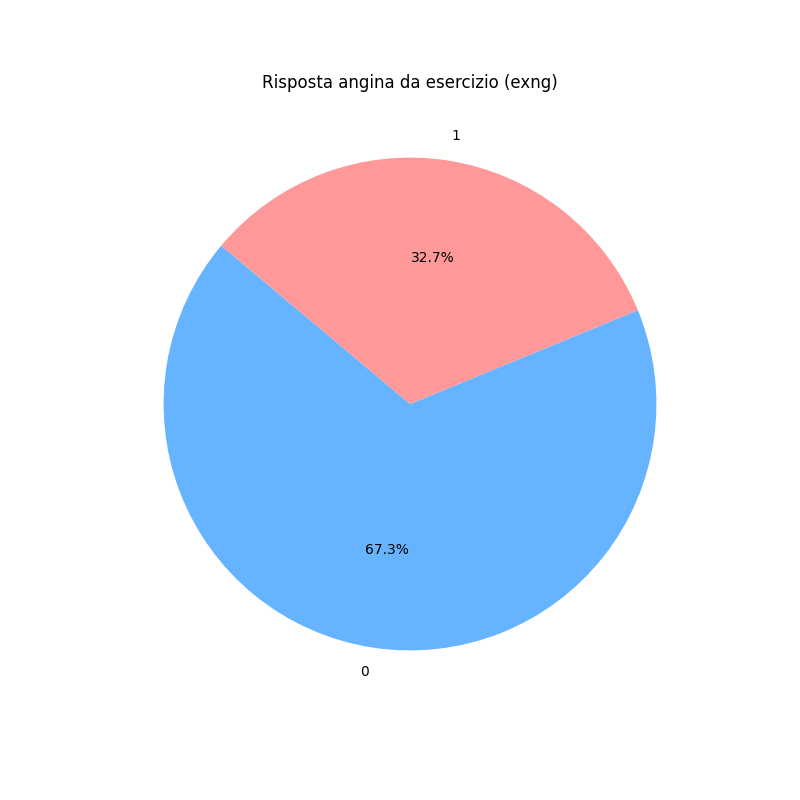
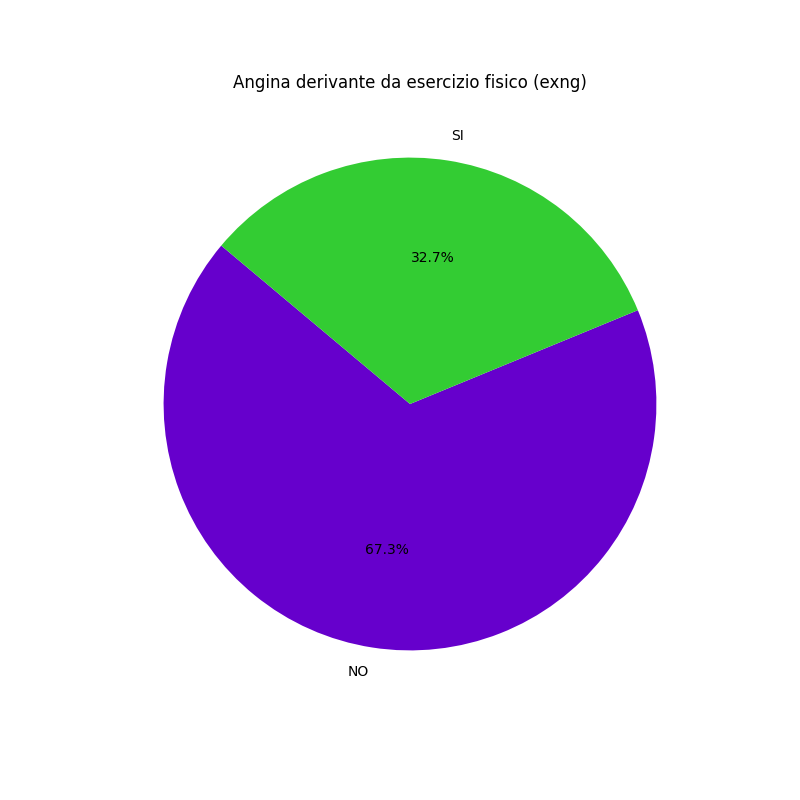
Aggiornamento grafica dei diagrammi

diff --git a/Dataset_description/dataset_description.py b/Dataset_description/dataset_description.py
@@ -45,18 +45,28 @@ plt.close()
 # Percentuale maschi e femmine con diagramma a torta
 gender_counts = df['sex'].value_counts()
 plt.figure(figsize=(8, 8))
-plt.pie(gender_counts, labels=gender_counts.index, autopct='%1.1f%%', startangle=140, colors=['#66b3ff', '#ff9999'])
+plt.pie(gender_counts, labels=['Maschi', 'Femmine'], autopct='%1.1f%%', startangle=140, colors=['#66b3ff', '#ff9999'])
 plt.title('Percentuale maschi e femmine')
 #plt.show()
 plt.savefig('pie_gender.png')  # Salva come immagine
 plt.close()
 
+# Mappare i valori di `cp` a etichette descrittive
+cp_labels = {
+    0: 'Angina tipica',
+    1: 'Angina atipica',
+    2: 'Dolore Non Anginoso',
+    3: 'Asintomatico'
+}
+df['cp_label'] = df['cp'].map(cp_labels)
+
+
 # Treemap per i tipi di dolore al petto (cp)
-cp_counts = df['cp'].value_counts().reset_index()
-cp_counts.columns = ['cp', 'count']
-fig_cp = px.treemap(cp_counts, path=['cp'], values='count', title='Distribuzione dei tipi di dolore al petto (cp)')
+cp_counts = df['cp_label'].value_counts().reset_index()
+cp_counts.columns = ['cp_label', 'count']
+fig_cp = px.treemap(cp_counts, path=['cp_label'], values='count', color='cp_label', title='Distribuzione dei tipi di dolore al petto (cp)')
 #fig_cp.show()
-fig_cp = px.treemap(cp_counts, path=['cp'], values='count', title='Distribuzione dei tipi di dolore al petto (cp)')
+fig_cp.update_traces(textinfo='label+percent entry+value')
 fig_cp.write_image('treemap_cp.png')  # Salva come immagine
 
 
@@ -72,7 +82,7 @@ plt.close()
 
 # Valori del colesterolo con diagramma a violino
 plt.figure(figsize=(10, 6))
-sns.violinplot(y=df['chol'], color='#ff9999')
+sns.violinplot(y=df['chol'], color='#ffff00')
 plt.title('Violin plot dei valori del colesterolo')
 plt.xlabel('Colesterolo')
 #plt.show()
@@ -82,7 +92,7 @@ plt.close()
 # Livelli di zucchero nel sangue a digiuno (fbs) con diagramma a torta
 fbs_counts = df['fbs'].value_counts()
 plt.figure(figsize=(8, 8))
-plt.pie(fbs_counts, labels=['> 120 mg/dl', '<= 120 mg/dl'], autopct='%1.1f%%', startangle=140, colors=['#66b3ff', '#ff9999'])
+plt.pie(fbs_counts, labels=['> 120 mg/dl', '<= 120 mg/dl'], autopct='%1.1f%%', startangle=140, colors=['#FF6600', '#006699'])
 plt.title('Percentuale di zucchero nel sangue a digiuno (fbs)')
 #plt.show()
 plt.savefig('pie_fbs.png')  # Salva come immagine
@@ -91,7 +101,7 @@ plt.close()
 # restecg con diagramma a torta
 restecg_counts = df['restecg'].value_counts()
 plt.figure(figsize=(8, 8))
-plt.pie(restecg_counts, labels=restecg_counts.index, autopct='%1.1f%%', startangle=140, colors=sns.color_palette("pastel"))
+plt.pie(restecg_counts, labels=['Normale', 'Anomalia della onda ST-T', ' Ipertrofia ventricolare sinistra'], autopct='%1.1f%%', startangle=140, colors=sns.color_palette("pastel"))
 plt.title('Risultati elettrocardiografici a riposo (restecg)')
 #plt.show()
 plt.savefig('pie_restecg.png')  # Salva come immagine
@@ -99,7 +109,7 @@ plt.close()
 
 # Grafico: Violin plot per la frequenza cardiaca massima raggiunta (thalachh)
 plt.figure(figsize=(10, 6))
-sns.violinplot(y=df['thalach'], color='#ff9999')
+sns.violinplot(y=df['thalach'], color='#ff0000')
 plt.title('Violin plot della frequenza cardiaca massima raggiunta (thalach)')
 plt.xlabel('Frequenza Cardiaca Massima')
 #plt.show()
@@ -109,35 +119,55 @@ plt.close()
 # exng con diagramma a torta
 exng_counts = df['exang'].value_counts()
 plt.figure(figsize=(8, 8))
-plt.pie(exng_counts, labels=exng_counts.index, autopct='%1.1f%%', startangle=140, colors=['#66b3ff', '#ff9999'])
-plt.title('Risposta angina da esercizio (exng)')
+plt.pie(exng_counts, labels=['NO', 'SI'], autopct='%1.1f%%', startangle=140, colors=['#6600CC', '#33CC33'])
+plt.title('Angina derivante da esercizio fisico (exng)')
 #plt.show()
 plt.savefig('pie_exng.png')  # Salva come immagine
 plt.close()
 
+
+# Mappare i valori di `thall` a etichette descrittive
+thall_labels = {
+    0: 'Nullo',
+    1: 'Difettoso Fisso',
+    2: 'Normale',
+    3: 'Difettoso Reversibile'
+}
+df['thall_label'] = df['thall'].map(thall_labels)
+
+
 # thall con diagramma ad albero
-thall_counts = df['thall'].value_counts().reset_index()
-thall_counts.columns = ['thall', 'count']
-fig = px.treemap(thall_counts, path=['thall'], values='count', title='Distribuzione dei risultati del test di talassemia (thall)')
+thall_counts = df['thall_label'].value_counts().reset_index()
+thall_counts.columns = ['thall_label', 'count']
 #fig.show()
-fig_thall = px.treemap(thall_counts, path=['thall'], values='count', title='Distribuzione dei risultati del test di talassemia (thall)')
+fig_thall = px.treemap(thall_counts, path=['thall_label'], values='count', title='Distribuzione dei risultati del test di talassemia (thall)')
+fig_thall.update_traces(textinfo='label+percent entry+value')
 fig_thall.write_image('treemap_thall.png')  # Salva come immagine
+
+# Mappare i valori di `output` a etichette descrittive
+output_labels = {
+    0: '< 50% possibilità di malattie cardiache',
+    1: '> 50% possibilità di malattie cardiache'
+}
+df['output_label'] = df['output'].map(output_labels)
 
 # output con diagramma a barre
 plt.figure(figsize=(10, 6))
-sns.countplot(x=df['output'], palette='pastel')
-plt.title('Distribuzione delle diagnosi di malattia (output)')
-plt.xlabel('Diagnosi di Malattia')
+sns.countplot(x=df['output_label'], palette='pastel')
+plt.title('Distribuzione delle diagnosi di possibili malattie cardiache(output)')
+plt.xlabel('')
 plt.ylabel('Conteggio')
 #plt.show()
 plt.savefig('bar_output.png')  # Salva come immagine
 plt.close()
 
-# Correlazione tra tutti i dati
-plt.figure(figsize=(14, 10))
-sns.heatmap(df.corr(), annot=True, cmap='coolwarm', linewidths=0.5)
+# Seleziona solo le colonne numeriche
+numeric_df = df.select_dtypes(include='number')
+
+# Grafico: Correlazione tra tutti i dati
+plt.figure(figsize=(12, 10))
+sns.heatmap(numeric_df.corr(), annot=True, cmap='RdBu', center=0, linewidths=0.5, fmt='.2f')
 plt.title('Matrice di correlazione')
-#plt.show()
 plt.savefig('heatmap_correlation.png')  # Salva come immagine
 plt.close()
 
